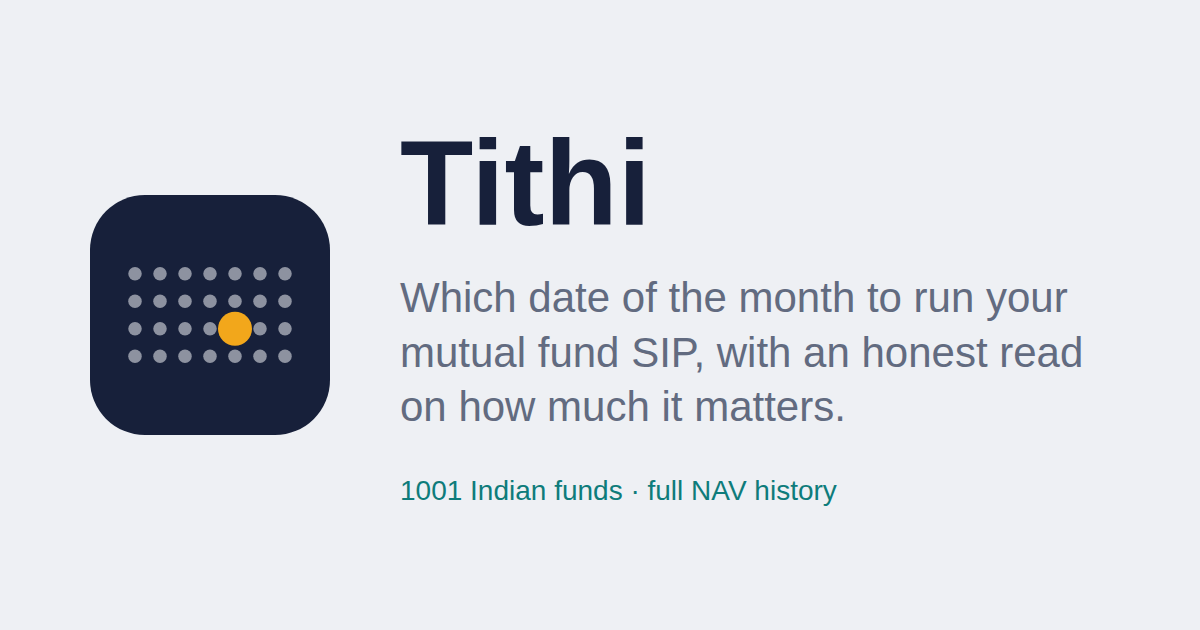
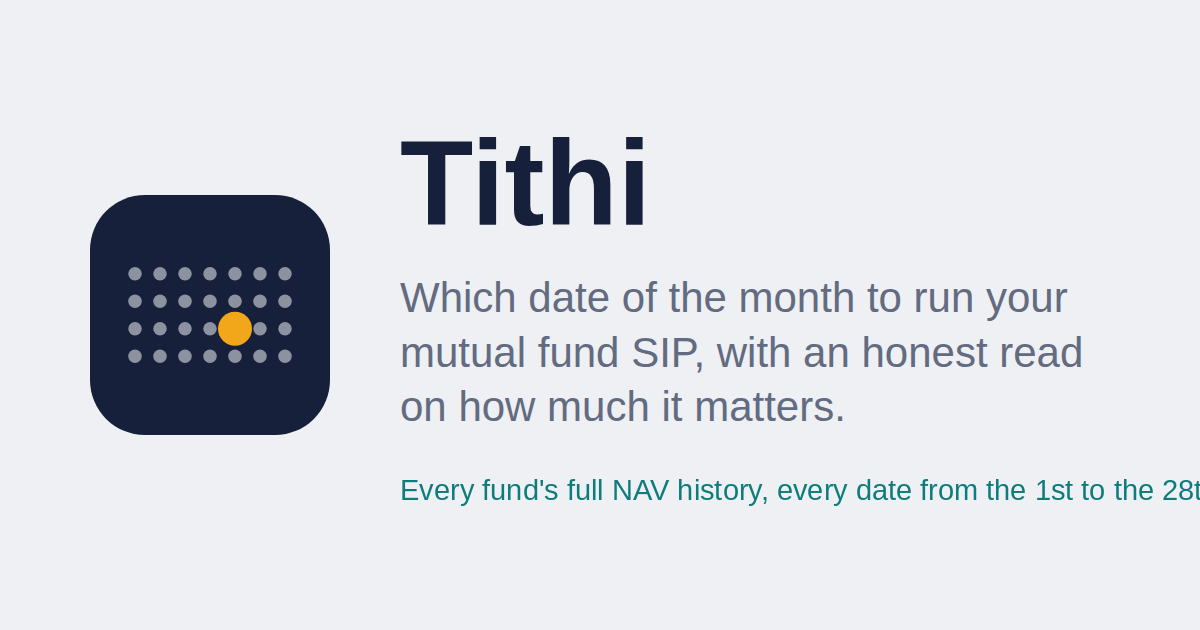
fix: derive fund count in home and WebSite descriptions; drop number from og-image
Claude-Session: https://claude.ai/code/session_01LtT54QxbP3Tt7pg4xygeTx

Changed region(s): [[0.3392, 0.754, 1.0, 0.8143]]

diff --git a/src/lib/seo.ts b/src/lib/seo.ts
@@ -28,22 +28,31 @@ export const SITE_NAME = "Tithi";
 export const SITE_ALTERNATE_NAME = "SIP Date Planner";
 /** The one social-preview image every page shares, 1200x630 in `public/`. */
 export const OG_IMAGE_PATH = "/og-image.png";
-export const OG_IMAGE_ALT = "Tithi: which date of the month to run your mutual fund SIP";
-export const ROBOTS_INDEX = "index, follow, max-image-preview:large, max-snippet:-1, max-video-preview:-1";
+export const OG_IMAGE_ALT =
+  "Tithi: which date of the month to run your mutual fund SIP";
+export const ROBOTS_INDEX =
+  "index, follow, max-image-preview:large, max-snippet:-1, max-video-preview:-1";
 export const ROBOTS_NOINDEX = "noindex, follow";
 
-export const DEFAULT_ORIGIN = "https://sip-date-planner.kulkarniakshay1989.workers.dev";
+export const DEFAULT_ORIGIN =
+  "https://sip-date-planner.kulkarniakshay1989.workers.dev";
 
 /** The one sentence the site is about, for the home page and as a fallback. */
-export const SITE_DESCRIPTION =
-  "Which date of the month to run your mutual fund SIP, from the full published NAV history " +
-  "of 1001 Indian funds — with an honest read on how little the date usually matters.";
+export function siteDescription(count?: number): string {
+  return (
+    "Which date of the month to run your mutual fund SIP, from the full published NAV history " +
+    `of ${count && count > 0 ? `${count} ` : ""}Indian funds — with an honest read on how little the date usually matters.`
+  );
+}
 
 // -----------------------------------------------------------------------------------------------
 // Escaping
 
 export function escapeAttribute(value: string): string {
-  return value.replace(/&/g, "&amp;").replace(/"/g, "&quot;").replace(/</g, "&lt;");
+  return value
+    .replace(/&/g, "&amp;")
+    .replace(/"/g, "&quot;")
+    .replace(/</g, "&lt;");
 }
 
 /** `</script>` inside JSON would end the tag early; so would a lone `<`. */
@@ -89,7 +98,10 @@ export function sharedNames(rows: readonly IndexRow[]): ReadonlySet<string> {
 }
 
 /** How a fund is named in a title or a description: its own name, or that plus its scheme code. */
-export function displayName(fund: Pick<FundArtifact, "name" | "code">, disambiguate = false): string {
+export function displayName(
+  fund: Pick<FundArtifact, "name" | "code">,
+  disambiguate = false,
+): string {
   return disambiguate ? `${fund.name} (scheme ${fund.code})` : fund.name;
 }
 
@@ -124,7 +136,10 @@ export function fundTitle(
  * content signal, not a keyword win.
  */
 export function fundDescription(
-  fund: Pick<FundArtifact, "name" | "code" | "spreadPp" | "instalments" | "verdict" | "trimmedFrom">,
+  fund: Pick<
+    FundArtifact,
+    "name" | "code" | "spreadPp" | "instalments" | "verdict" | "trimmedFrom"
+  >,
   answer: Answer,
   disambiguate = false,
 ): string {
@@ -149,7 +164,7 @@ export function fundDescription(
 }
 
 export const HOME_TITLE = `${SITE_NAME} — which date to run your mutual fund SIP`;
-export const HOME_DESCRIPTION = SITE_DESCRIPTION;
+export const homeDescription = siteDescription;
 
 export const FUNDS_TITLE = `All funds — ${SITE_NAME}`;
 export function fundsDescription(count: number): string {
@@ -202,7 +217,9 @@ export function headTags(tags: HeadTags): string {
   ];
 
   for (const block of tags.jsonLd ?? []) {
-    lines.push(`<script type="application/ld+json">${escapeJson(block)}</script>`);
+    lines.push(
+      `<script type="application/ld+json">${escapeJson(block)}</script>`,
+    );
   }
 
   return lines.join("\n    ");
@@ -224,20 +241,23 @@ export function headTags(tags: HeadTags): string {
  * of the URL. Claiming one would be describing a page that doesn't exist, which is the kind of
  * thing that costs a site its rich results rather than earning it any.
  */
-export function websiteJsonLd(origin: string): string {
+export function websiteJsonLd(origin: string, count: number): string {
   return JSON.stringify({
     "@context": "https://schema.org",
     "@type": "WebSite",
     name: SITE_NAME,
     alternateName: SITE_ALTERNATE_NAME,
     url: `${origin}/`,
-    description: SITE_DESCRIPTION,
+    description: siteDescription(count),
     inLanguage: "en-IN",
   });
 }
 
 /** Where this page sits, which is what puts a breadcrumb line under the result instead of a URL. */
-export function breadcrumbJsonLd(origin: string, trail: ReadonlyArray<{ name: string; path: string }>): string {
+export function breadcrumbJsonLd(
+  origin: string,
+  trail: ReadonlyArray<{ name: string; path: string }>,
+): string {
   return JSON.stringify({
     "@context": "https://schema.org",
     "@type": "BreadcrumbList",
@@ -255,7 +275,9 @@ export function breadcrumbJsonLd(origin: string, trail: ReadonlyArray<{ name: st
  * rich results to a handful of site types in 2023, so this is not a bet on a rich snippet — it is
  * a correct description of a page that really is a set of questions and answers.
  */
-export function faqJsonLd(entries: ReadonlyArray<{ question: string; answer: string }>): string {
+export function faqJsonLd(
+  entries: ReadonlyArray<{ question: string; answer: string }>,
+): string {
   return JSON.stringify({
     "@context": "https://schema.org",
     "@type": "FAQPage",
@@ -368,12 +390,18 @@ export type SitemapEntry = {
  * 50,000 URLs and 50 MB uncompressed is the protocol's limit and 1003 is nowhere near it, so one
  * file is enough and no index file is needed.
  */
-export function sitemapXml(origin: string, entries: readonly SitemapEntry[]): string {
+export function sitemapXml(
+  origin: string,
+  entries: readonly SitemapEntry[],
+): string {
   const urls = entries.map((entry) => {
     const parts = [`    <loc>${escapeXml(`${origin}${entry.path}`)}</loc>`];
-    if (entry.lastmod) parts.push(`    <lastmod>${escapeXml(entry.lastmod)}</lastmod>`);
-    if (entry.changefreq) parts.push(`    <changefreq>${entry.changefreq}</changefreq>`);
-    if (entry.priority) parts.push(`    <priority>${entry.priority}</priority>`);
+    if (entry.lastmod)
+      parts.push(`    <lastmod>${escapeXml(entry.lastmod)}</lastmod>`);
+    if (entry.changefreq)
+      parts.push(`    <changefreq>${entry.changefreq}</changefreq>`);
+    if (entry.priority)
+      parts.push(`    <priority>${entry.priority}</priority>`);
     return `  <url>\n${parts.join("\n")}\n  </url>`;
   });
 

diff --git a/src/lib/seo.test.ts b/src/lib/seo.test.ts
@@ -17,7 +17,7 @@ import { HOME_FAQ } from "./faq";
 import {
   DEFAULT_ORIGIN,
   FUNDS_TITLE,
-  HOME_DESCRIPTION,
+  homeDescription,
   HOME_TITLE,
   SITE_NAME,
   breadcrumbJsonLd,
@@ -203,7 +203,7 @@ describe("structured data", () => {
   const parse = (block: string): Record<string, unknown> => JSON.parse(block) as Record<string, unknown>;
 
   it("declares the site without claiming a search endpoint it doesn't have", () => {
-    const site = parse(websiteJsonLd(ORIGIN));
+    const site = parse(websiteJsonLd(ORIGIN, 1008));
     expect(site["@type"]).toBe("WebSite");
     expect(site.url).toBe(`${ORIGIN}/`);
     // The obvious thing to add, and wrong here: there is no URL that takes a query string.
@@ -290,10 +290,11 @@ describe("the sitemap", () => {
 describe("the site's own copy", () => {
   it("has a title and description in the length a result will show", () => {
     expect(HOME_TITLE.length).toBeLessThanOrEqual(70);
-    expect(HOME_DESCRIPTION.length).toBeGreaterThan(80);
-    expect(HOME_DESCRIPTION.length).toBeLessThan(320);
+    expect(homeDescription(1008).length).toBeGreaterThan(80);
+    expect(homeDescription(1008).length).toBeLessThan(320);
     expect(FUNDS_TITLE).toContain(SITE_NAME);
     expect(fundsDescription(1001)).toContain("1001");
+    expect(homeDescription(1008)).toContain("1008 Indian funds");
   });
 
   it("ships a default origin that is absolute, so a canonical is never relative", () => {

diff --git a/src/routes/home.tsx b/src/routes/home.tsx
@@ -20,11 +20,14 @@ import { Link } from "react-router";
 import { SPREAD_THRESHOLD_PP } from "../lib/copy";
 import { HOME_FAQ } from "../lib/faq";
 import { setHead } from "../lib/head";
-import { HOME_DESCRIPTION, HOME_TITLE } from "../lib/seo";
+import { peekIndex } from "../lib/data";
+import { HOME_TITLE, homeDescription } from "../lib/seo";
 
 export function Home() {
   useEffect(() => {
-    setHead({ title: HOME_TITLE, description: HOME_DESCRIPTION, path: "/" });
+    // The index isn't fetched for the home page (spec §9), so the count is used only when the
+    // search box has already loaded it; otherwise the description simply omits the number.
+    setHead({ title: HOME_TITLE, description: homeDescription(peekIndex()?.length), path: "/" });
   }, []);
 
   return (

diff --git a/scripts/prerender.ts b/scripts/prerender.ts
@@ -18,7 +18,7 @@ import type { FundArtifact, IndexRow, Meta } from "../shared/artifacts";
 import { pickAnswer } from "../src/lib/answer";
 import {
   FUNDS_TITLE,
-  HOME_DESCRIPTION,
+  homeDescription,
   HOME_TITLE,
   breadcrumbJsonLd,
   directoryJsonLd,
@@ -174,10 +174,10 @@ async function main(): Promise<void> {
       path: "/",
       markup: render("/", { dataVersion: meta.dataVersion, navAsOf: meta.navAsOf }),
       title: HOME_TITLE,
-      description: HOME_DESCRIPTION,
+      description: homeDescription(index.length),
       canonical: `${origin}/`,
       meta,
-      jsonLd: [websiteJsonLd(origin), faqJsonLd(HOME_FAQ)],
+      jsonLd: [websiteJsonLd(origin, index.length), faqJsonLd(HOME_FAQ)],
     }),
   );
 
